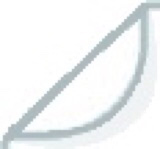
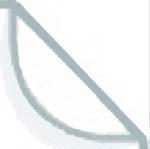
Add files via upload

diff --git a/gallery/style.css b/gallery/style.css
@@ -46,7 +46,7 @@ body {
 .gallery .corner-image {
   position: absolute;
   top: 0;
-  left: 0;
+  right: 0;
   width: 12.5%;
   height: auto;
   z-index: 1;
